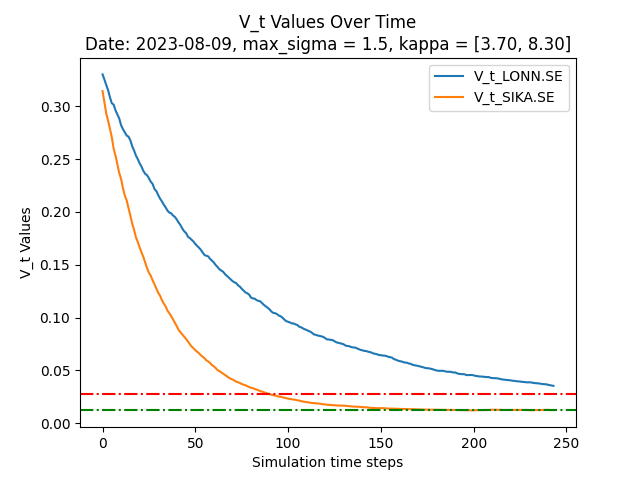
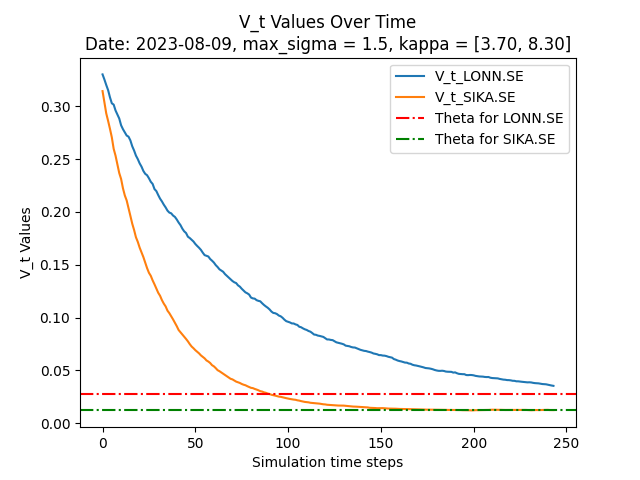
Fixed legend

Changed region(s): [[0.625, 0.125, 0.875, 0.3125]]

diff --git a/code/yq/scripts/model_eval.py b/code/yq/scripts/model_eval.py
@@ -68,6 +68,7 @@ def analyse_V_t():
     plt.ylabel('V_t Values')
     plt.axhline(0.02714370413916297, color='r', linestyle='-.', label='Theta for LONN.SE')
     plt.axhline(0.012215540619082728, color='g', linestyle='-.', label='Theta for SIKA.SE')
+    plt.legend()
     plt.savefig(file_path)
 
 def analyse_rho_volatility():
@@ -222,7 +223,8 @@ def analyse_rmse(model: str):
         # For Heston need to deal with empty PPD, calculate 1 more RMSE_clean
         if model == 'heston':
             compare_clean = payouts_compare.copy(deep=True)
-            compare_clean = compare_clean[(compare_clean.index < pd.Timestamp('2023-09-15')) | (compare_clean.index > pd.Timestamp('2023-10-03'))]
+            compare_clean = compare_clean[(compare_clean.index < pd.Timestamp('2023-09-15')) | 
+                                          (compare_clean.index > pd.Timestamp('2023-10-03'))]
             compare_clean = compare_clean[compare_clean['ppd_payouts'] > 0]
             RMSE_clean = np.sqrt(np.mean((compare_clean['ppd_payouts'] - compare_clean['actual_price']) ** 2))
 
@@ -294,7 +296,7 @@ def analyse_RMSE_asset():
     """
         # Function parameters
     model = 'gbm'
-    gbm_files = ["20231114_092701_252"] # GBM champion: 20231114_092701_252. heston 20231115_032413_252_1.5 # TODO: heston need adjust
+    gbm_files = ["20231114_092701_252"] # Top performers: GBM: 20231114_092701_252 heston 20231115_032413_252_1.5 # TODO: heston need adjust
     # Test GBM: 20231114_024525_7
     # RMSE dict for each ppd
     RMSE_dict = {}

diff --git a/code/yq_script.py b/code/yq_script.py
@@ -226,15 +226,15 @@ if __name__ == "__main__":
 
     # Test for HESTON MAX SIGMA
     # Delete useless folders first, clean logs, adjust plot
-    # hist_windows = [7, 63, 252]
-    # n_sims = [10, 100, 1000]
-    # models = ['gbm','heston']
-    # max_sigmas = [0.5, 1.5, 10]
+    hist_windows = [7, 63, 252]
+    n_sims = [10, 100, 1000]
+    max_sigmas = [0.5, 1.5, 10] # For heston only
+    models = ['gbm','heston']
     
     hist_windows = [63]
     n_sims = [100]
-    models = ['gbm']
     max_sigmas = [1.5]
+    models = ['gbm']
     sim_grid_search_heston(hist_windows=hist_windows,
                     n_sims=n_sims,
                     models=models,

diff --git a/code/yq_script_2.py b/code/yq_script_2.py
@@ -37,4 +37,6 @@ if __name__ == "__main__":
     # model_eval.analyse_rmse(model='gbm')
     # model_eval.analyse_rmse(model='heston')
 
-    model_eval.analyse_RMSE_asset()
+    # model_eval.analyse_RMSE_asset()
+
+    model_eval.analyse_V_t()
